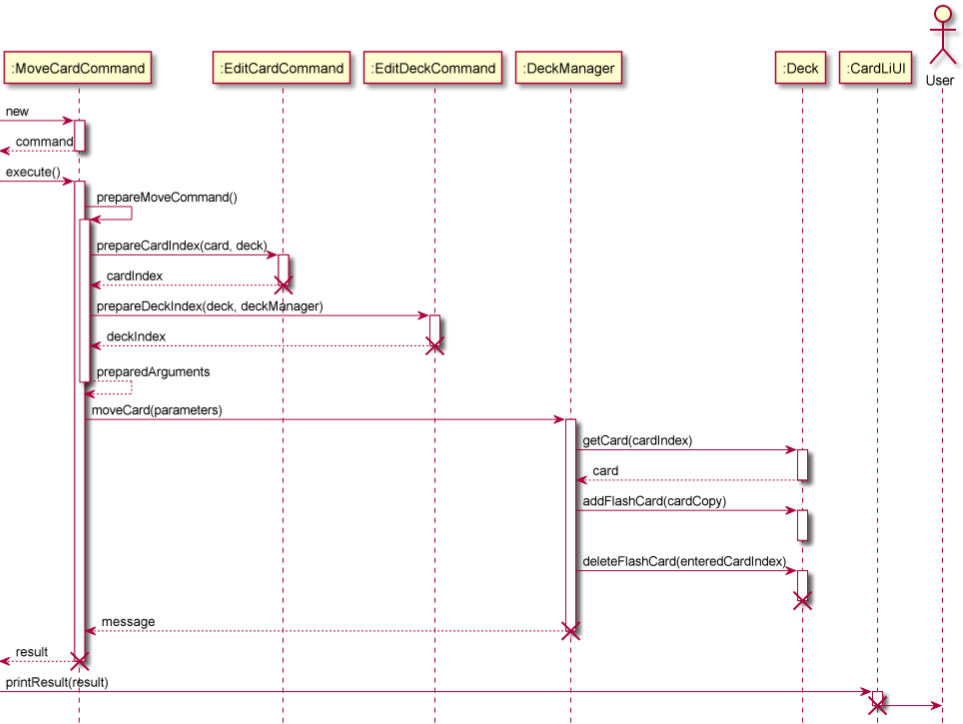
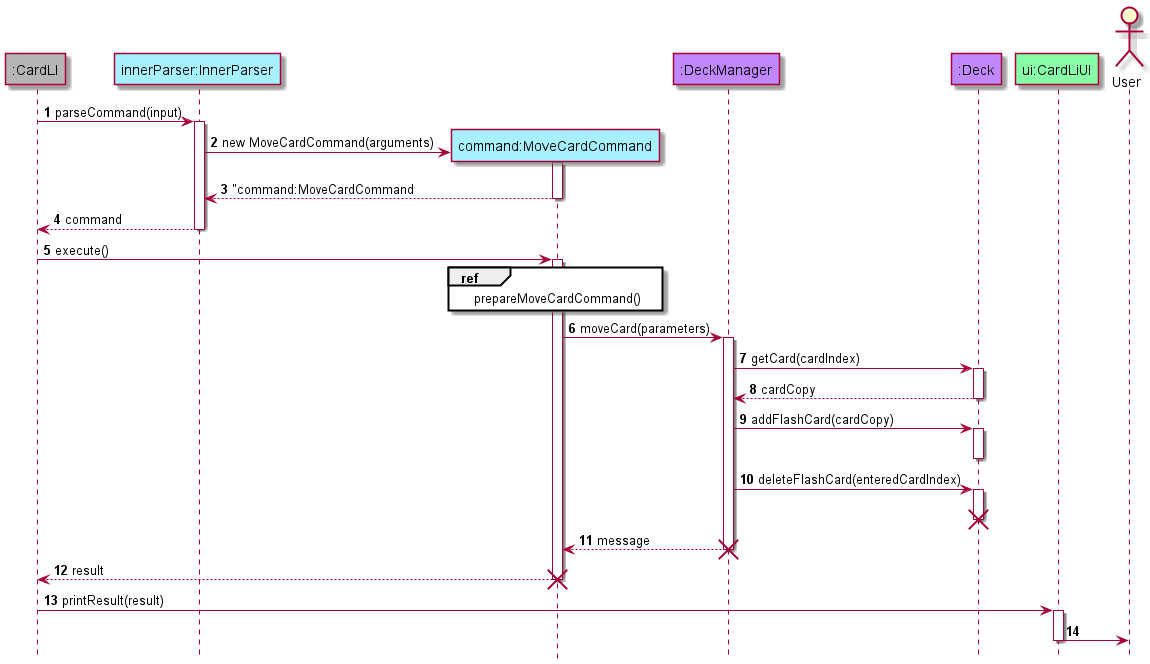
Added javadoc and updated Seq diagrams

diff --git a/src/main/java/seedu/cardli/commands/system/EditDeckCommand.java b/src/main/java/seedu/cardli/commands/system/EditDeckCommand.java
@@ -40,6 +40,14 @@ public class EditDeckCommand extends Command {
         this.deckManager = deckManager;
     }
 
+    /**
+     * Returns the deck index for prepareEditDeckCommand as a string
+     *
+     * @return deck index
+     * @throws DeckNotExistException If the deck index given is out of bounds
+     * @throws NumberFormatException If an integer above 2147483647 is entered by the user as the deck index
+     * @throws CardLiException If a non-integer is given as index
+     */
     public static String prepareDeckIndex(String deck, DeckManager deckManager) throws CardLiException,
             NumberFormatException {
         logger.setLevel(Level.WARNING);
@@ -59,6 +67,16 @@ public class EditDeckCommand extends Command {
         return deck;
     }
 
+    /**
+     * Returns the checked arguments for EditDeckCommand
+     *
+     * @return checked arguments
+     * @throws FieldEmptyException If arguments or flags are empty.
+     * @throws InvalidCommandFormatException If flags are in the wrong position
+     * @throws DeckNotExistException If the deck index given is out of bounds
+     * @throws NumberFormatException If an integer above 2147483647 is entered by the user as the deck index
+     * @throws CardLiException If flags are used as arguments, if a non-integer is given as index
+     */
     public String[] prepareEditDeckCommand() throws CardLiException, NumberFormatException {
         logger.setLevel(Level.WARNING);
         logger.log(Level.INFO, "preparing EditDeckCommand");

diff --git a/src/main/java/seedu/cardli/flashcard/DeckManager.java b/src/main/java/seedu/cardli/flashcard/DeckManager.java
@@ -3,6 +3,8 @@ package seedu.cardli.flashcard;
 
 import seedu.cardli.exceptions.CardLiException;
 import seedu.cardli.exceptions.DeckNotExistException;
+import seedu.cardli.exceptions.FieldEmptyException;
+import seedu.cardli.exceptions.InvalidCommandFormatException;
 
 import static seedu.cardli.ui.TestUi.DECK_NOT_EXIST_MESSAGE;
 
@@ -25,7 +27,13 @@ public class DeckManager {
         this.decks = decks;
     }
 
-
+    /**
+     * Returns the details of the transfer that took place as a message
+     *
+     * @param parameters string array containing the destination deck index, current deck index, card index
+     * @return the details of the transfer that took place as a message
+     * @throws CardLiException If card does not exist
+     */
     public String moveCard(String[] parameters) throws CardLiException {
         String enteredCurrentDeckIndex = parameters[0];
         int currentDeckIndex = Integer.parseInt(enteredCurrentDeckIndex);
@@ -44,7 +52,12 @@ public class DeckManager {
         return ("Moved card " + enteredCardIndex + " to " + "deck " + enteredDeckIndex);
     }
 
-
+    /**
+     * Returns the details of the edit that took place as a message
+     *
+     * @param args string array containing the  deck index and name
+     * @return the details of the transfer that took place as a message
+     */
     public String editDeck(String[] args) {
         String enteredDeckIndex = args[0];
         int deckIndex = Integer.parseInt(enteredDeckIndex) - 1;

diff --git a/src/main/java/seedu/cardli/commands/deck/EditCardCommand.java b/src/main/java/seedu/cardli/commands/deck/EditCardCommand.java
@@ -40,6 +40,13 @@ public class EditCardCommand extends Command {
         this.parser = new EditCardParser();
     }
 
+    /**
+     * Returns the card index for prepareEditCardCommand as a string
+     *
+     * @return card index
+     * @throws NumberFormatException If an integer above 2147483647 is entered by the user as the card index
+     * @throws CardLiException If a non-integer is given as index, if the card index given is out of bounds
+     */
     public static String prepareCardIndex(String card, Deck deck) throws CardLiException, NumberFormatException {
         logger.setLevel(Level.WARNING);
         logger.log(Level.INFO, "preparing Card Index");
@@ -58,6 +65,16 @@ public class EditCardCommand extends Command {
         return card;
     }
 
+    /**
+     * Returns the checked arguments for EditCardCommand
+     *
+     * @return checked arguments
+     * @throws FieldEmptyException If arguments or flags are empty.
+     * @throws InvalidCommandFormatException If flags are in the wrong position
+     * @throws NumberFormatException If an integer above 2147483647 is entered by the user as the card index
+     * @throws CardLiException If flags are used as arguments, if a non-integer is given as index,if front or side are
+     * not entered as a side
+     */
     public String[] prepareEditCardCommand() throws CardLiException, NumberFormatException {
         logger.setLevel(Level.WARNING);
         logger.log(Level.INFO, "preparing EditCardCommand");

diff --git a/src/main/java/seedu/cardli/commands/deck/MoveCardCommand.java b/src/main/java/seedu/cardli/commands/deck/MoveCardCommand.java
@@ -40,6 +40,17 @@ public class MoveCardCommand extends Command {
         this.parser = new MoveCardParser();
     }
 
+    /**
+     * Returns the checked arguments for MoveCardCommand
+     *
+     * @return checked arguments
+     * @throws FieldEmptyException If arguments or flags are empty.
+     * @throws InvalidCommandFormatException If flags are in the wrong position
+     * @throws seedu.cardli.exceptions.DeckNotExistException If the deck index given is out of bounds
+     * @throws NumberFormatException If an integer above 2147483647 is entered by the user as the card or deck index
+     * @throws CardLiException If flags are used as arguments,if a card is being sent to the deck it is currently in,
+     * if a non-integer is given as index, if the card index given is out of bounds
+     */
     public String[] prepareMoveCardCommand() throws CardLiException {
         logger.setLevel(Level.WARNING);
         logger.log(Level.INFO, "preparing MoveCommand");
@@ -101,7 +112,7 @@ public class MoveCardCommand extends Command {
     }
 
     @Override
-    public CommandResult execute() { //move /c <index> /d <index
+    public CommandResult execute() {
         CommandResult result;
         try {
             String[] parameters = prepareMoveCardCommand();

diff --git a/src/main/java/seedu/cardli/flashcard/Deck.java b/src/main/java/seedu/cardli/flashcard/Deck.java
@@ -38,6 +38,12 @@ public class Deck {
 
 
     //@@author ThaddeusLim99
+    /**
+     * Returns the details of the edit that took place as a message
+     *
+     * @param parameters string array containing the  card index, side and input
+     * @return the details of the transfer that took place as a message
+     */
     public String editCard(String[] parameters) {
         String enteredCardIndex = parameters[0];
         int cardIndex = Integer.parseInt(enteredCardIndex) - 1;

diff --git a/src/main/java/seedu/cardli/testing/AnswerList.java b/src/main/java/seedu/cardli/testing/AnswerList.java
@@ -32,6 +32,12 @@ public class AnswerList {
         this.isAllAnswered = false;
     }
 
+    /**
+     * Returns true or false regarding if a question is answered
+     *
+     * @param index the question in the answerList
+     * @return true or false regarding if a question is answered
+     */
     public Boolean isQuestionAnswered(int index) {
         Boolean isQuestionAnswered;
         try {

diff --git a/docs/team/thaddeuslim99.md b/docs/team/thaddeuslim99.md
@@ -61,7 +61,8 @@ Given below are my contributions to the project.
     * Developer Guide:
         * Added logo: [\#176](https://github.com/AY2122S1-CS2113T-F12-1/tp/pull/176/commits/4a65edacd11031aa9171799af420bb412d415ddb)
         * Added implementation details of the `edit` feature (for both cards and deck): [\#65](https://github.com/AY2122S1-CS2113T-F12-1/tp/pull/65/commits/f996afecdada4c5118fba93f1a43893fed89c2ed)
-        * Added implementation details of the `move` feature [\#92](https://github.com/AY2122S1-CS2113T-F12-1/tp/pull/92/commits/7580984d8ec14af1bca8d4f213ff4e6b30e79074)
+        * Added implementation details of the `move` feature: [\#92](https://github.com/AY2122S1-CS2113T-F12-1/tp/pull/92/commits/7580984d8ec14af1bca8d4f213ff4e6b30e79074)
+        * Added table of content and enabled anchor links: 
 
 * **Community**:
     * Reported bugs and suggestions for other teams' [developer guide](https://github.com/nus-cs2113-AY2122S1/tp/pull/33#pullrequestreview-792605786))
